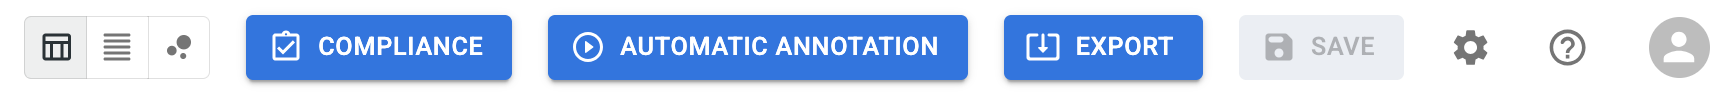
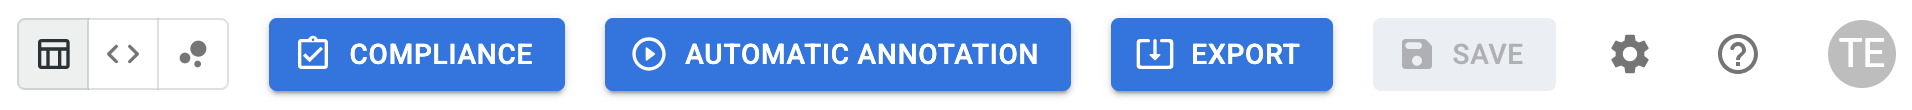
some fixes

diff --git a/src/components/core/DynamicForm/DynamicForm.tsx b/src/components/core/DynamicForm/DynamicForm.tsx
@@ -57,6 +57,19 @@ const DynamicForm: FC<DynamicFormProps> = ({
     defaultValues: getDefaultValues(service),
   });
 
+  let activeColumnType = (service as any).columnType;
+  if (!activeColumnType && selectedColumns.length === 1) {
+    const colId = selectedColumns[0];
+    const values: string[] = [];
+    Object.keys(rows.byId).slice(0, 5).forEach((rowId) => {
+      const cell = rows.byId[rowId].cells[colId];
+      if (cell?.label != null) values.push(String(cell.label).trim());
+    });
+    activeColumnType = dateFormatterUtils(values);
+  }
+
+  console.log("activeColumnType", activeColumnType);
+
   // Watch all form values for dependency checking
   const watchedValues = watch();
   const formatType = watch("formatType");
@@ -67,6 +80,7 @@ const DynamicForm: FC<DynamicFormProps> = ({
   const granularity = watch("granularity");
   const splitRenameMode = watch("splitRenameMode");
   const splitMode = watch("splitMode");
+  console.log("splitDatetime", splitDatetime);
 
   let finalType = "";
 
@@ -82,7 +96,7 @@ const DynamicForm: FC<DynamicFormProps> = ({
       {
         ...formValue,
         selectedColumns,
-        columnType: service.columnType,
+        columnType: activeColumnType,
         splitDatetime: formValue.splitDatetime,
       },
       () => reset(getDefaultValues(service)),
@@ -131,13 +145,13 @@ const DynamicForm: FC<DynamicFormProps> = ({
       if (param.id === "detailLevel") {
         let options = filterDetailLevelOptions(
           param.options,
-          service.columnType,
+          activeColumnType,
           formatType,
         );
         if (
           selectedColumns.length === 1 &&
           columnToJoin &&
-          service.columnType !== "datetime" &&
+          activeColumnType !== "datetime" &&
           finalType === "datetime"
         ) {
           options = options.filter(
@@ -161,11 +175,12 @@ const DynamicForm: FC<DynamicFormProps> = ({
     });
   }, [
     service.formParams,
-    service.columnType,
+    activeColumnType,
     formatType,
     columnToJoin,
     finalType,
     selectedColumns,
+    rows,
   ]);
 
   return (
@@ -225,7 +240,7 @@ const DynamicForm: FC<DynamicFormProps> = ({
                       control={<Checkbox {...field} checked={field.value} />}
                       label="Join selected columns"
                     />
-                    {field.value && service.columnType !== "datetime" && (
+                    {field.value && activeColumnType !== "datetime" && (
                       <Controller
                         name="separator"
                         control={control}
@@ -241,7 +256,7 @@ const DynamicForm: FC<DynamicFormProps> = ({
             )}
             {selectedColumns.length === 1 &&
               columnToJoin &&
-              service.columnType !== "datetime" &&
+              activeColumnType !== "datetime" &&
               finalType !== "datetime" && (
                 <Controller
                   name="separator"
@@ -252,7 +267,7 @@ const DynamicForm: FC<DynamicFormProps> = ({
                   )}
                 />
               )}
-            {service.columnType === "datetime" &&
+            {activeColumnType === "datetime" &&
               selectedColumns.length === 1 && (
                 <Controller
                   name="splitDatetime"

diff --git a/src/pages/Dashboard/cellComponentsConfig.tsx b/src/pages/Dashboard/cellComponentsConfig.tsx
@@ -53,7 +53,21 @@ export const CELL_COMPONENTS_TYPES: Record<CellComponent, CellComponentProps> =
     date: {
       component: (cell) => {
         const value = cell.getValue();
-        return <TimeAgo title="" date={value} />;
+        const abbreviatedFormatter = (value, unit, suffix) => {
+          const unitsMap: Record<string, string> = {
+            second: 's',
+            minute: 'm',
+            hour: 'h',
+            day: 'd',
+            week: 'w',
+            month: 'mo',
+            year: 'y',
+          };
+          const u = unitsMap[unit] || unit;
+          return `${value}${u} ${suffix}`;
+        };
+
+        return <TimeAgo title="" date={value} formatter={abbreviatedFormatter} />;
       },
     },
     tag: {

diff --git a/src/pages/Viewer/TableViewer/Table/TableHeaderCell/TableHeaderCellExpanded.tsx b/src/pages/Viewer/TableViewer/Table/TableHeaderCell/TableHeaderCellExpanded.tsx
@@ -157,6 +157,7 @@ const TableHeaderCellExpanded: FC<TableHeaderCellExpandedProps> = ({
           () => setPropertiesExpanded(!propertiesExpanded),
           1,
         )}
+      {/*
       <ExpandableList
         messageIfNoContent="Cell doesn't have any entity metadata"
         className={styles.ExpandableList}
@@ -209,6 +210,7 @@ const TableHeaderCellExpanded: FC<TableHeaderCellExpandedProps> = ({
           ))}
         </ExpandableListBody>
       </ExpandableList>
+      */}
     </div>
   ) : null;
 };

diff --git a/src/pages/Viewer/TableViewer/MetadataColumnDialog/PropertyTab.tsx b/src/pages/Viewer/TableViewer/MetadataColumnDialog/PropertyTab.tsx
@@ -300,7 +300,7 @@ const PropertyTab: FC<PropertyTabProps> = ({ addEdit, setCurrentRole, currentKin
           schemaOptions = [{ url: `${baseUrlSchema}Text`, label: "Text" }];
           break;
         default:
-          wiki = { url: baseUrlWiki, label: "Wikidata" };
+          wiki = { url: baseUrlWiki, label: "Items" };
           schemaOptions = [{ url: `${baseUrlSchema}DataType`, label: "DataType" }];
           break;
       }

diff --git a/src/components/kit/TableListView/TableListView.tsx b/src/components/kit/TableListView/TableListView.tsx
@@ -216,7 +216,7 @@ const TableListView: FC<TableListViewProps> = ({
           ))}
         </thead>
         <tbody>
-          {table.getSortedRowModel().rows.map((row) => (
+          {table.getRowModel().rows.map((row) => (
             <tr key={row.id} className={styles.Tr} {...rowPropGetter(row)}>
               {row.getVisibleCells().map((cell) => (
                 <td key={cell.id} className={styles.Td}>
